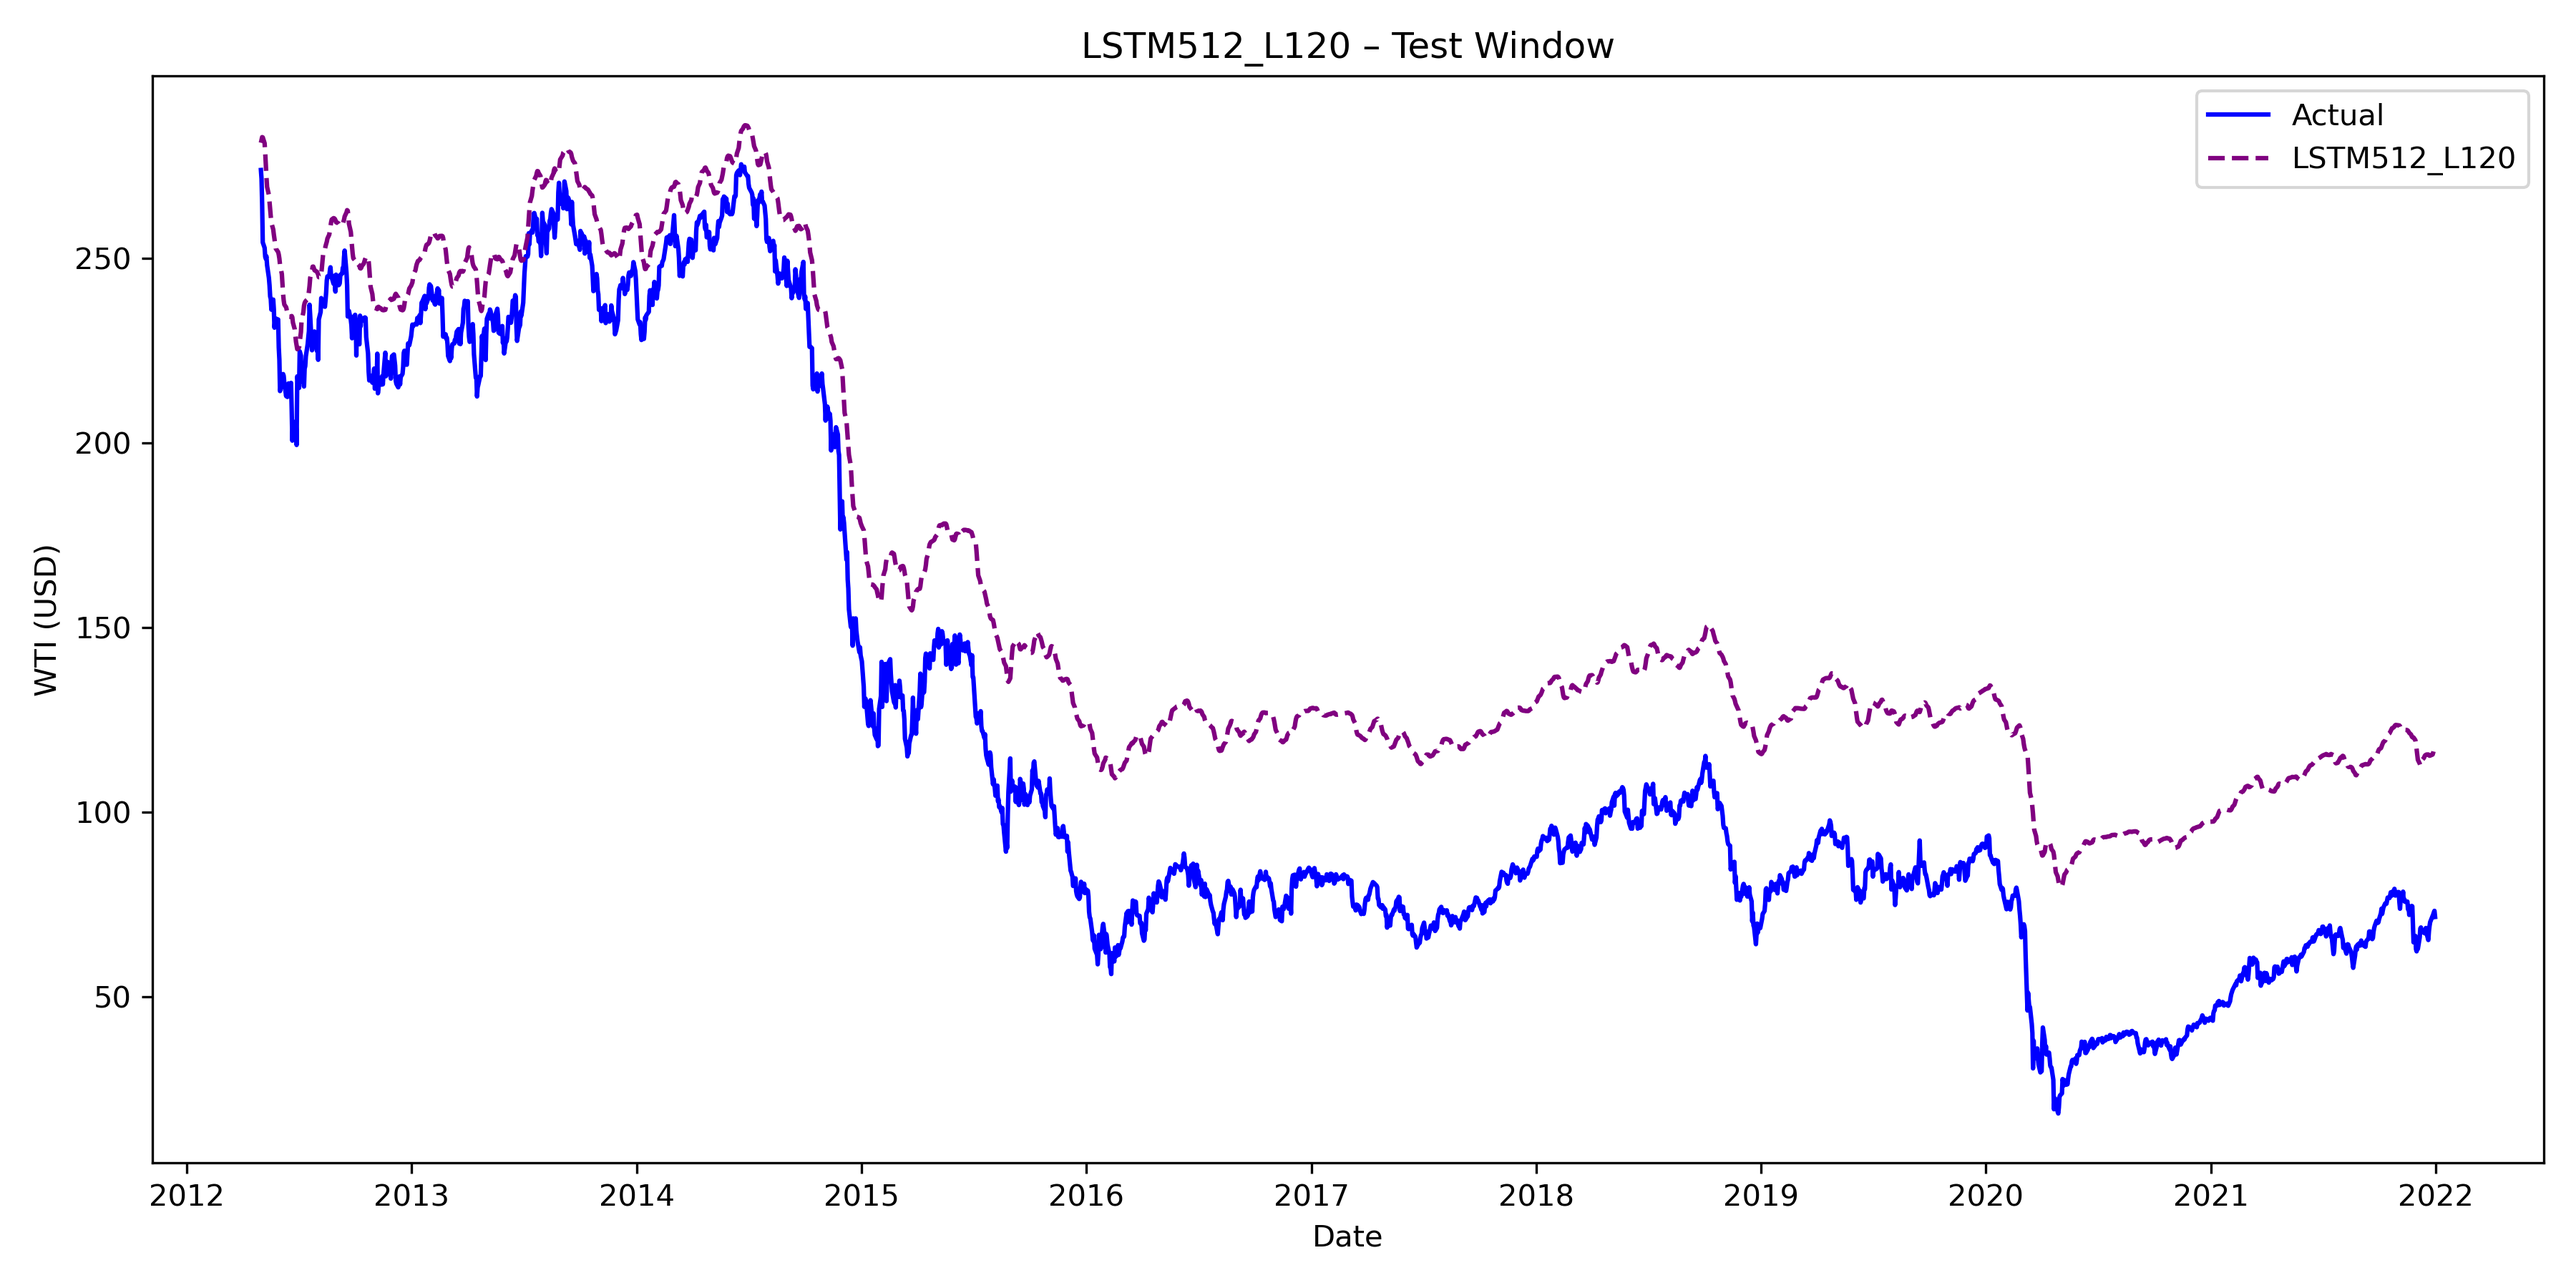
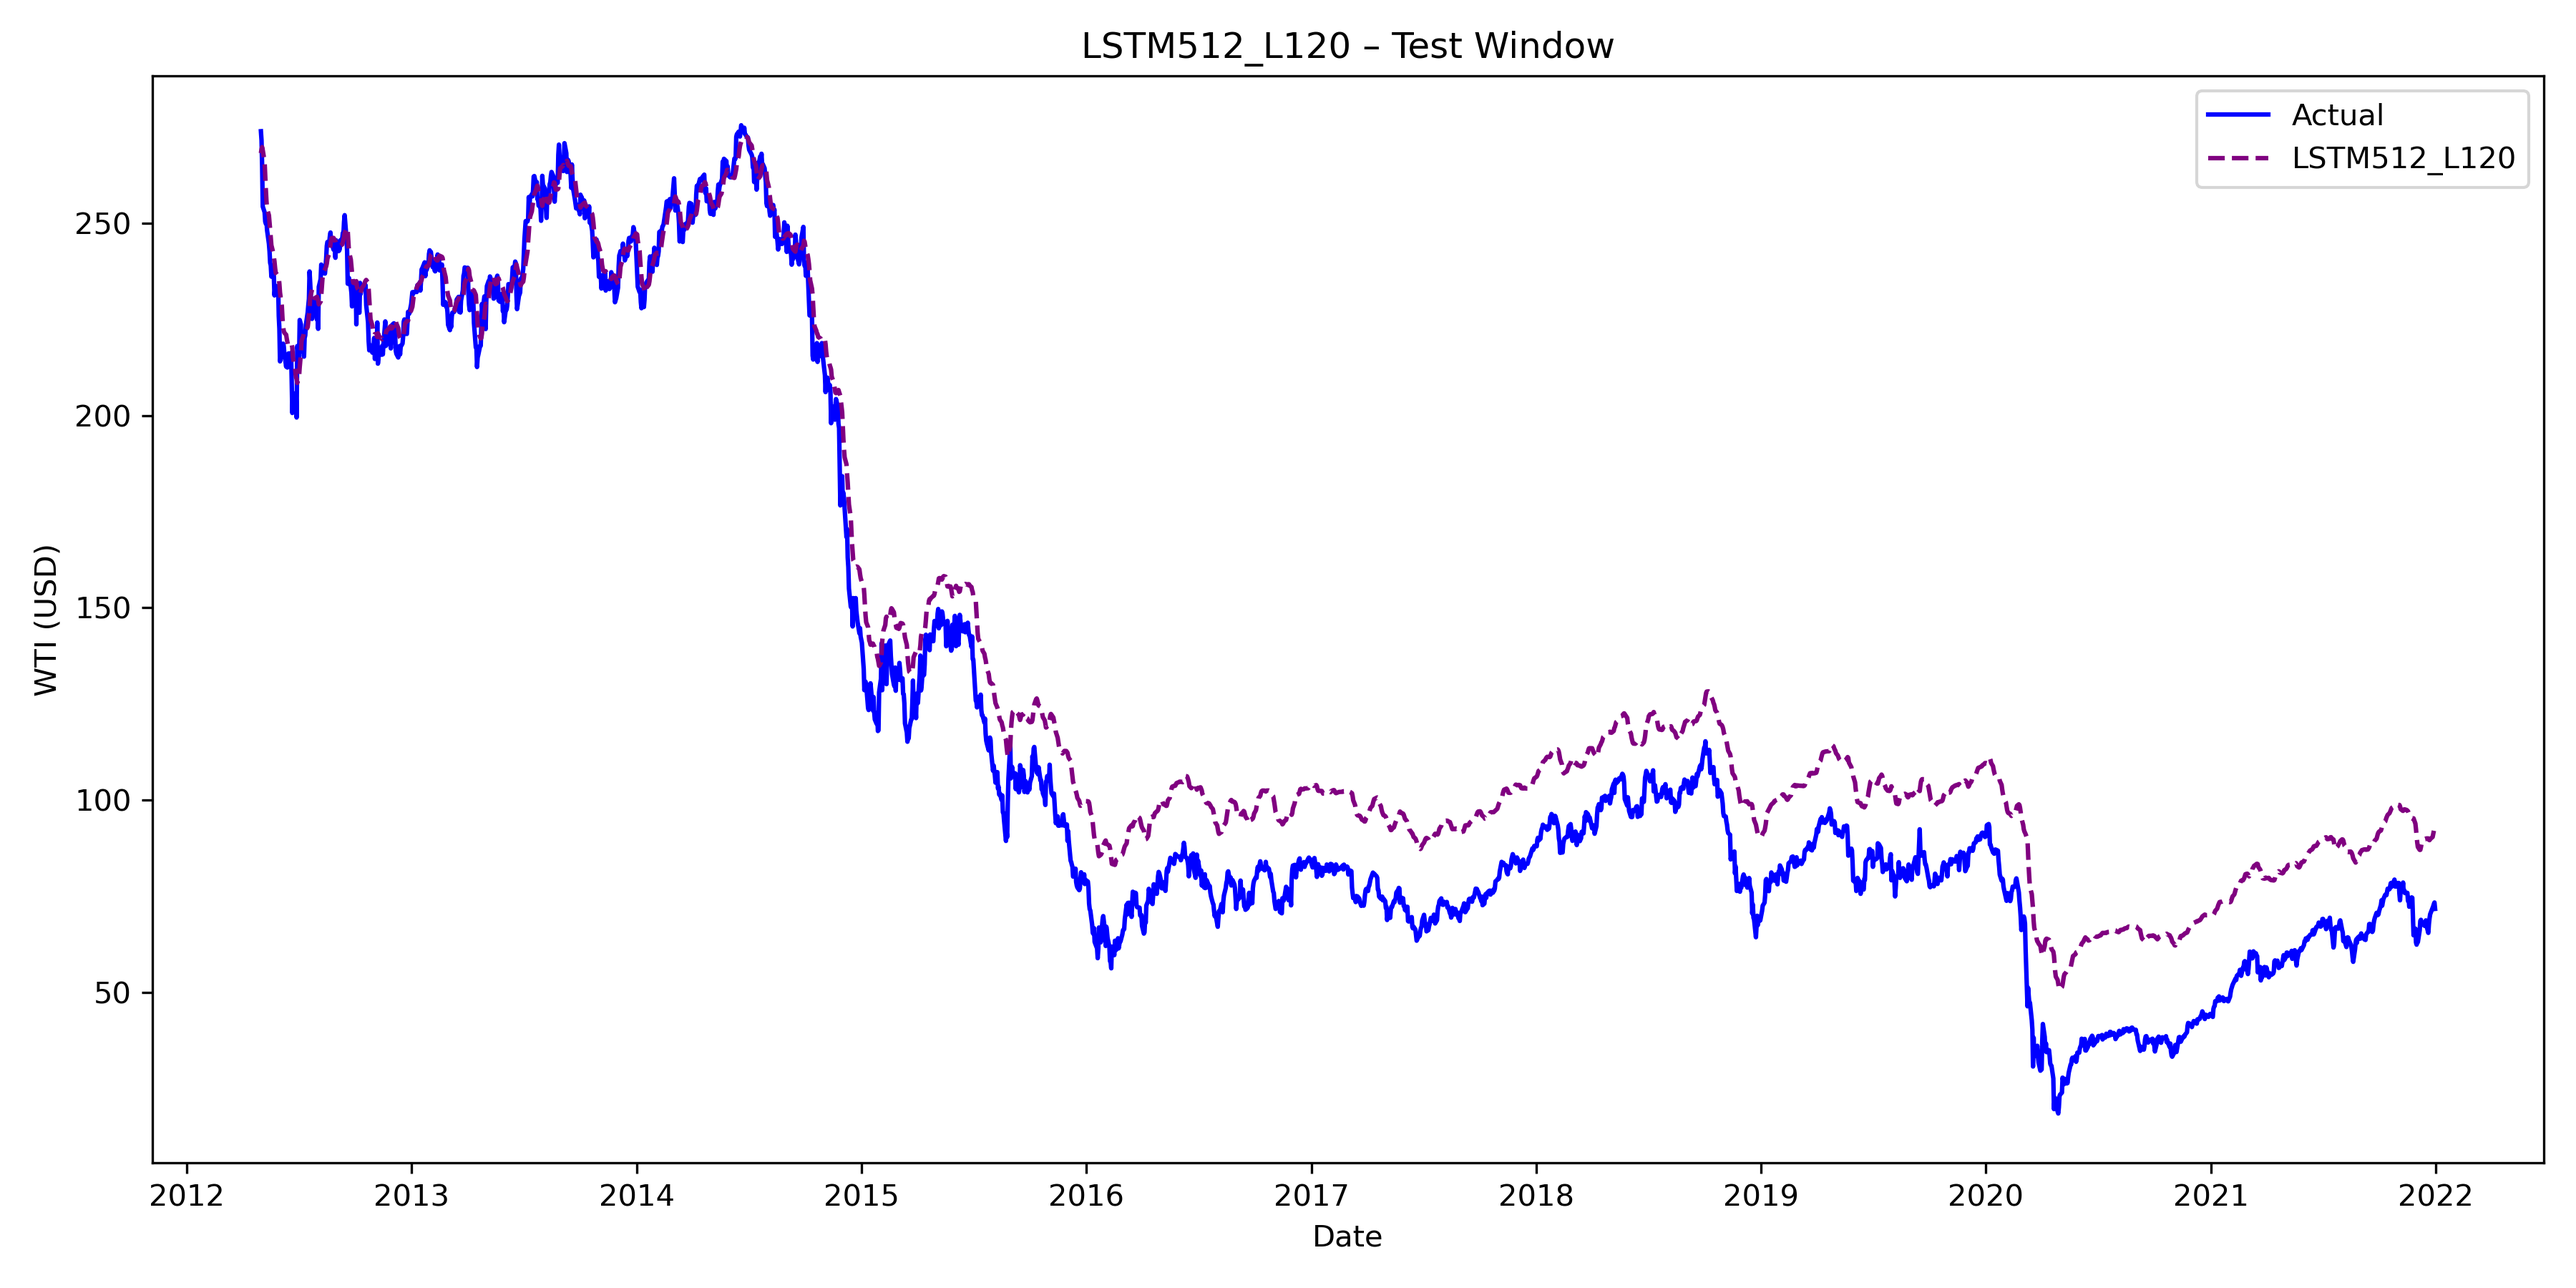
base lstms doing very well

diff --git a/stacked-lookback.py b/stacked-lookback.py
@@ -4,7 +4,8 @@ import numpy  as np
 import pandas as pd
 import torch, torch.nn as nn
 from datetime               import datetime
-from sklearn.preprocessing  import MinMaxScaler
+from sklearn.model_selection import TimeSeriesSplit
+from sklearn.preprocessing  import MinMaxScaler, StandardScaler
 from sklearn.svm            import SVR
 from sklearn.metrics        import mean_squared_error, mean_absolute_error
 import matplotlib.pyplot    as plt
@@ -17,24 +18,36 @@ FIG_DIR = "lookback_figs"; os.makedirs(FIG_DIR, exist_ok=True)
 device = "cuda" if torch.cuda.is_available() else "cpu"
 print(f"[INIT]  device={device}")
 
-# Parameters you may want to tweak 
-SEQ_SET    = [14, 30, 60, 120, 180]               # heterogeneous windows
-HIDDEN_SET = [512, 512, 512, 512, 512]              # one per window (same length!)
-EPOCHS     = 60                               # per LSTM
-SPLIT_DATE = datetime(2017, 8, 4)             # AoOR protocol
+SEQ_SET    = [7, 14, 30, 60, 120, 180]
+HIDDEN_SET = [128, 128, 128, 128, 128, 128]
+EPOCHS     = 60
+SPLIT_DATE = datetime(2017, 8, 4)
 CSV_FILE   = "wti_daily.csv"
 
 assert len(SEQ_SET) == len(HIDDEN_SET), "SEQ_SET and HIDDEN_SET must match!"
 
-# Load & split raw prices 
-df   = pd.read_csv(CSV_FILE, parse_dates=["Date"]).sort_values("Date")
+# Load and split raw prices 
+df = pd.read_csv(CSV_FILE, parse_dates=["Date"]).sort_values("Date").reset_index(drop=True)
 price_raw = df["Price"].values.reshape(-1, 1)
 
-split_idx = df.index[df["Date"] == SPLIT_DATE][0]        # first test row
+split_idx = df.index[df["Date"] == SPLIT_DATE][0]
 train_raw = price_raw[:split_idx]
 test_raw  = price_raw[split_idx:]
 
-scaler = MinMaxScaler().fit(train_raw)                   # TRAIN-only fit
+# plot train/test split
+plt.figure(figsize=(12,6))
+plt.plot(df["Date"][:split_idx], train_raw, color="black", label="Training Data")
+plt.plot(df["Date"][split_idx:], test_raw, color="gray", label="Testing Data")
+plt.axvline(x=SPLIT_DATE, color='r', linestyle='--', alpha=0.5)
+plt.title("WTI Price Data - Train/Test Split")
+plt.xlabel("Date")
+plt.ylabel("WTI Price (USD)")
+plt.legend()
+plt.tight_layout()
+plt.savefig(os.path.join(FIG_DIR, "wti_prices.png"), dpi=300)
+plt.close()
+
+scaler = MinMaxScaler().fit(train_raw)
 train_scaled = scaler.transform(train_raw)
 test_scaled  = scaler.transform(test_raw)
 
@@ -83,6 +96,7 @@ def fit_lstm(model, X, y, tag="", epochs=EPOCHS):
 
     for ep in range(1, epochs+1):
         idx = torch.randperm(len(X_t))
+        # batch size of 128
         for i in range(0, len(X_t), 128):
             b = idx[i:i+128]
             opt.zero_grad(); l = loss(model(X_t[b]), y_t[b]); l.backward(); opt.step()
@@ -105,16 +119,19 @@ for j, (L, H) in enumerate(zip(SEQ_SET, HIDDEN_SET), 1):
     # offset so that predictions line up with the y_*_max reference
     off = max_L - L
 
-    net = fit_lstm(PriceLSTM(H), X_tr, y_tr, tag=f"L{L}h{H}")
+    model = PriceLSTM(H)
+    total_params = sum(p.numel() for p in model.parameters())
+    print(f"Total params: {total_params}")
+    net = fit_lstm(model, X_tr, y_tr, tag=f"L{L}h{H}")
     with torch.no_grad():
         train_meta[:, j-1] = net(torch.tensor(X_tr, dtype=torch.float32,
                                               device=device)).cpu().numpy().squeeze()[off:]
         test_meta[:,  j-1] = net(torch.tensor(X_te, dtype=torch.float32,
                                               device=device)).cpu().numpy().squeeze()
         base_preds.append(test_meta[:, j-1].copy())
-
+        
 # SVR stack trained on aligned TRAIN meta 
-svr = SVR(kernel="rbf", C=10, gamma="scale", epsilon=0.001)
+svr = SVR(kernel="rbf", C=3, gamma="scale", epsilon=0.1)
 svr.fit(train_meta, y_train_max.ravel())
 stack_pred_scaled = svr.predict(test_meta)
 print("[STACK] SVR meta-learner trained.")
@@ -151,20 +168,107 @@ def evaluate_by_horizon():
 # Replace original evaluation code with:
 evaluate_by_horizon()
 
+def plot_metrics_vs_capacity():
+    # Calculate model capacity
+    capacities = [l + h for l, h in zip(SEQ_SET, HIDDEN_SET)]
+    models = [f"LSTM{h}L{l}" for l, h in zip(SEQ_SET, HIDDEN_SET)]
+    metrics = {'MAE': {}, 'MSE': {}, 'SMAPE': {}}
+    
+    # Collect metrics for each horizon
+    for h in horizons:
+        metrics['MAE'][h] = []
+        metrics['MSE'][h] = []
+        metrics['SMAPE'][h] = []
+        
+        for pred_scaled in base_preds:
+            p_usd = scaler.inverse_transform(pred_scaled.reshape(-1,1)).squeeze()
+            y_h, f_h = truth_usd[h:], p_usd[:-h]
+            metrics['MAE'][h].append(mean_absolute_error(y_h, f_h))
+            metrics['MSE'][h].append(mean_squared_error(y_h, f_h))
+            metrics['SMAPE'][h].append(smape(y_h, f_h))
+    
+    # Create plots
+    metric_names = ['MAE', 'MSE', 'SMAPE']
+    colors = ['blue', 'red', 'green']
+    
+    for metric in metric_names:
+        plt.figure(figsize=(10, 6))
+        for h, color in zip(horizons, colors):
+            plt.plot(capacities, metrics[metric][h], 
+                    marker='o', color=color, label=f'{h}-day horizon')
+        
+        plt.xlabel('Model Capacity (Lookback + Hidden)')
+        plt.ylabel(metric)
+        plt.title(f'{metric} vs Model Capacity')
+        plt.legend()
+        plt.grid(True, alpha=0.3)
+        plt.tight_layout()
+        
+        fn = os.path.join(FIG_DIR, f'capacity_vs_{metric.lower()}.png')
+        plt.savefig(fn, dpi=300)
+        plt.close()
+        print(f"[PLOT] saved {fn}")
+
+# Call the new plotting function
+plot_metrics_vs_capacity()
 
 # Plots  – one per model + stack
 test_dates = df["Date"].iloc[split_idx: ].values   # aligns to y_test_max
 
-def save_plot(name, pred_scaled, clr):
-    pred_usd = scaler.inverse_transform(pred_scaled.reshape(-1,1)).squeeze()
-    plt.figure(figsize=(12,6))
-    plt.plot(test_dates, truth_usd, label="Actual", color="blue")
-    plt.plot(test_dates, pred_usd,  label=name, color=clr, linestyle="--")
-    plt.title(f"{name} – Test Window"); plt.xlabel("Date"); plt.ylabel("WTI (USD)")
-    plt.legend(); plt.tight_layout()
-    fn = os.path.join(FIG_DIR, f"test_{name.replace(' ','_')}.png")
-    plt.savefig(fn, dpi=300); plt.close(); print(f"[PLOT] saved {fn}")
+TRAIN_CLR = "blue"
+TEST_CLR  = "firebrick"
 
-for (L,H), pr in zip(zip(SEQ_SET,HIDDEN_SET), base_preds):
-    save_plot(f"LSTM{H}_L{L}", pr, "purple")
-save_plot("SVR_Stack", stack_pred_scaled, "red")
+def save_plot(name, train_pred_scaled, test_pred_scaled,
+              clr_train=TRAIN_CLR, clr_test=TEST_CLR):
+    # inverse-transform
+    tr_usd  = scaler.inverse_transform(train_pred_scaled.reshape(-1,1)).squeeze()
+    te_usd  = scaler.inverse_transform(test_pred_scaled.reshape(-1,1)).squeeze()
+
+    plt.figure(figsize=(12,6))
+
+    # actual
+    plt.plot(df["Date"].values, df["Price"], label="Actual", color="black")
+
+    # predictions
+    plt.plot(df["Date"].iloc[max_L:split_idx],
+             tr_usd, label=f"{name} (train)", color=clr_train, linestyle="--")
+    plt.plot(test_dates,
+             te_usd, label=f"{name} (test)",  color=clr_test,  linestyle="--")
+    plt.axvline(x=SPLIT_DATE, color='r', linestyle='--', alpha=0.5)
+    plt.title(f"{name} - aligned train & test predictions")
+    plt.xlabel("Date"); plt.ylabel("WTI (USD)")
+    plt.legend(); plt.tight_layout()
+    fn = os.path.join(FIG_DIR, f"aligned_{name.replace(' ','_')}.png")
+    plt.savefig(fn, dpi=300); plt.close()
+    print(f"[PLOT] saved {fn}")
+
+for (L,H), (tr_pred, te_pred) in zip(zip(SEQ_SET,HIDDEN_SET), 
+                                     zip(train_meta.T, test_meta.T)):
+    save_plot(f"LSTM{H}_L{L}", tr_pred, te_pred)
+
+# save_plot("SVR_Stack", svr.predict(train_meta_z), stack_pred_scaled,
+#           clr_train="purple", clr_test="red")
+save_plot("SVR_Stack", train_meta[:, -1], stack_pred_scaled,
+          clr_train="purple", clr_test="red")
+
+# Combined plot with all models
+plt.figure(figsize=(12,6))
+plt.plot(df["Date"].values, df["Price"], label="Actual", color="black")
+for (L,H), (tr_pred, te_pred) in zip(zip(SEQ_SET,HIDDEN_SET), 
+                                     zip(train_meta.T, test_meta.T)):
+    tr_usd = scaler.inverse_transform(tr_pred.reshape(-1,1)).squeeze()
+    te_usd = scaler.inverse_transform(te_pred.reshape(-1,1)).squeeze()
+    plt.plot(df["Date"].iloc[max_L:split_idx], tr_usd,
+             label=f"LSTM{H} (train)", color="blue", linestyle="--")
+    plt.plot(test_dates, te_usd,
+             label=f"LSTM{H} (test)", color="purple", linestyle="--")
+plt.plot(test_dates, scaler.inverse_transform(stack_pred_scaled.reshape(-1,1)).squeeze(),
+         label="SVR Stack (test)", color="red", linestyle="--")
+plt.axvline(x=SPLIT_DATE, color='r', linestyle='--', alpha=0.5)
+plt.title("All models - aligned train & test predictions")
+plt.xlabel("Date"); plt.ylabel("WTI (USD)")
+plt.legend(); plt.tight_layout()
+fn = os.path.join(FIG_DIR, "aligned_all_models.png")
+plt.savefig(fn, dpi=300); plt.close()
+print(f"[PLOT] saved {fn}")
+
